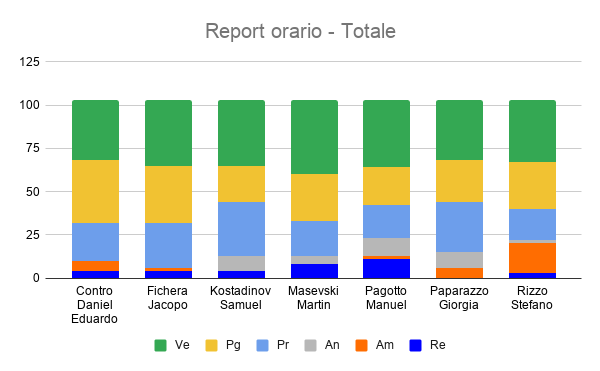
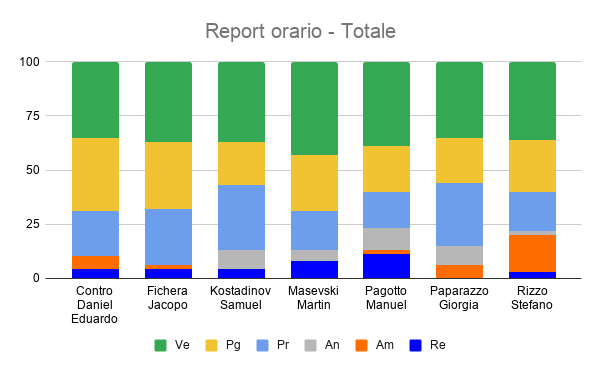
close #124

diff --git a/esterni/piano_di_progetto/src/6_consuntivo.tex b/esterni/piano_di_progetto/src/6_consuntivo.tex
@@ -230,15 +230,15 @@ Inoltre il gruppo ha deciso di togliere delle ore dal ruolo di \emph{responsabil
 	\rowcolor{lightgray}
 	\textbf{Nome} & \textbf{Re} & \textbf{Am} & \textbf{An} & \textbf{Pg}  & \textbf{Pr}   & \textbf{Ve} & \textbf{Totale}\\
 	\hline
-	Contro Daniel Eduardo & 4(-5) & 0 & 0 & 14(+4) & 22(+4) & 13 & 33(+3) \\
-	Fichera Jacopo & 0 & 0 & 0 & 17 & 19(+2) & 17(+1) & 33(+3) \\
-	Kostadinov Samuel & 4(-6) & 0 & 0 & 11(+3) & 19(+4) & 19(+2) & 33(+3) \\			
-	Masevski Martin & 0 & 0 & 5 & 15(+2) & 14(+1) & 19 & 33(+3) \\
-	Pagotto Manuel & 3(-5) & 0 & 0 & 13(+4) & 20(+4) & 17 & 33(+3) \\			
-	Paparazzo Giorgia & 0 & 6 & 2 & 17 & 13(+3) & 15 & 33(+3) \\
-	Rizzo Stefano & 0 & 8 & 0 & 12 & 17(+3) & 16 & 33(+3) \\
+	Contro Daniel Eduardo & 4(-5) & 0 & 0 & 13(+3) & 20(+2) & 13 & 30 \\
+	Fichera Jacopo & 0 & 0 & 0 & 17 & 17 & 16 & 30 \\
+	Kostadinov Samuel & 4(-6) & 0 & 0 & 10(+2) & 18(+3) & 18(+1) & 30 \\			
+	Masevski Martin & 0 & 0 & 5 & 13 & 13 & 19 & 30 \\
+	Pagotto Manuel & 3(-5) & 0 & 0 & 11(+2) & 19(+3) & 17 & 30 \\			
+	Paparazzo Giorgia & 0 & 6 & 2 & 17 & 10 & 15 & 30 \\
+	Rizzo Stefano & 0 & 8 & 0 & 12 & 14 & 16 & 30 \\
 	\hline
-	\textbf{Ore totali ruolo} & \textbf{11(-16)} & \textbf{14} & \textbf{7} & \textbf{99(+13)} & \textbf{124(+21)} & \textbf{116(+3)} & \textbf{371(+21)} \\
+	\textbf{Ore totali ruolo} & \textbf{11(-16)} & \textbf{14} & \textbf{7} & \textbf{93(+7)} & \textbf{111(+8)} & \textbf{114(+1)} & \textbf{350} \\
 	\hline
 	\end{tabular}
 	\caption{Resoconto orario della fase di progettazione e codifica di dettaglio}
@@ -267,15 +267,15 @@ Inoltre il gruppo ha deciso di togliere delle ore dal ruolo di \emph{responsabil
 		Responsabile & 	 11(-16) 	 & 330,00(-480,00) \\
 		Amministratore & 14 	 & 280,00 \\
 		Analista & 		7 	 & 175,00 \\
-		Progettista &    99(+13)   & 2.178,00(+286,00) \\
-		Programmatore &  124(+21)   & 1.860,00(+315,00) \\
-		Verificatore &   116(+3)  & 1.740,00(+45,00) \\
+		Progettista &    93(+7)   & 2.046,00(+154,00) \\
+		Programmatore &  111(+8)   & 1.665,00(+120,00) \\
+		Verificatore &   114(+1)  & 1.710,00(+15,00) \\
 		\hline
 		\textbf{Totale preventivo} & \textbf{350} & \textbf{€ 6.397,00} \\
 		\hline
-		\textbf{Totale consuntivo} & \textbf{371} & \textbf{€ 6.563,00} \\
+		\textbf{Totale consuntivo} & \textbf{350} & \textbf{€ 6.206,00} \\
 		\hline
-		\textbf{Differenza} & \textbf{21} & \textbf{+€ 166,00}\\
+		\textbf{Differenza} & \textbf{0} & \textbf{-€ 191,00}\\
 		\hline
 		\rowcolor{white}
 		\caption{Resoconto economico della fase di progettazione e codifica di dettaglio}
@@ -288,7 +288,7 @@ Inoltre il gruppo ha deciso di togliere delle ore dal ruolo di \emph{responsabil
 % In questa fase il bilancio viene chiuso in positivo, sebbene vi sia stato un evidente ritardo nella consegna. Ciò è avvenuto a causa del fatto che il gruppo non è riuscito a rientrare del ritardo maturato inizialmente, inoltre si sono verificati rischi non previsti, ovvero il fatto che la sessione invernale ha richiesto molte risorse da parte di buona parte del gruppo (RO02, RP01). 
 % A fronte di ciò, sebbene i documenti siano stati prodotti entro le tempistiche richieste, il PoC ha subito un leggero ritardo, quindi il gruppo ha avuto la necessità di chiedere il colloquio per la Technology Baseline il giorno 8 marzo. Questo ha portato alla possibilità di poter sviluppare più funzionalità di quelle che ci eravamo prefissati, e potenzialmente anticipare parte del lavoro che avverrà nella fase di Progettazione di Dettaglio. 
 % Sebbene questa fase sia rendicontata, attualmente il budget finale non ha subito aumenti di prezzo, bensì un leggero risparmio. Il gruppo farà tesoro di questa possibilità e cercherà di trarne vantaggio per la successiva fase.
-Avendo risparmiato 41,00 € nella fase precedente, il bilancio del gruppo è in negativo di  125,00 €. Questo è dovuto all'aumento delle ore per persona consuntivate nella fase di \emph{Progettazione e codifica di dettaglio}. Le ore assegnate ai ruoli ti \emph{amministratore} e \emph{responsabile} sono ritenute eccessive, al contrario invece, sono necessarie più ore assegnate al ruolo di \emph{programmatore}. A fronte di ciò abbiamo deciso di togliere alcune ore ai ruoli dell'\emph{amministratore} e del \emph{responsabile}, aggiungendone a quello del \emph{programmatore}. 
+Avendo risparmiato 41,00 € nella fase precedente, il bilancio del gruppo è in positivo di 232,00 €. Questo è dovuto alla ridistribuzione delle ore nella fase di \emph{Progettazione e codifica di dettaglio}. Le ore assegnate ai ruoli ti \emph{amministratore} e \emph{responsabile} sono ritenute eccessive, al contrario invece, sono necessarie più ore assegnate al ruolo di \emph{programmatore}. A fronte di ciò abbiamo deciso di togliere alcune ore ai ruoli dell'\emph{amministratore} e del \emph{responsabile}, aggiungendone a quello del \emph{programmatore}. 
 
 \paragraph{Preventivo a finire - Validazione e collaudo}
 
@@ -357,15 +357,15 @@ Il totale delle ore rendicontate preventivate per il progetto diventano le segue
 		\textbf{Nome} & \textbf{Re} & \textbf{Am} & \textbf{An} & \textbf{Pg}  & \textbf{Pr}   & \textbf{Ve} & \textbf{Totale} \\
 
 		\hline
-			Contro Daniel Eduardo & 4(-5) & 6(-1) & 0 & 22(+4) & 36(+5) & 35 & 103(+3) \\
-			Fichera Jacopo & 4(-5) & 2(-2) & 0 & 26(-1) & 33(+9) & 38(+2) & 103(+3) \\
-			Kostadinov Samuel & 4(-6) & 0 & 9(+1) & 31(+5) & 21(+4) & 38(-1) & 103(+3) \\		
-			Masevski Martin & 8(-3) & 0 & 5 & 20(+2) & 27(+9) & 43(-5) & 103(+3) \\
-			Pagotto Manuel & 11(-7) & 2(-2) & 10(+1) & 19(+4) & 22(+6) & 39(+1) & 103(+3) \\			
-			Paparazzo Giorgia & 0 & 6 & 9(-3) & 29(+4) & 24(+4) & 35(-2) & 103(+3) \\
-			Rizzo Stefano & 3(-5) & 17 & 2 & 18(+2) & 27(+9) & 36(-3) & 103(+3) \\
+			Contro Daniel Eduardo & 4(-5) & 6(-1) & 0 & 21(+3) & 34(+3) & 35 & 100 \\
+			Fichera Jacopo & 4(-5) & 2(-2) & 0 & 26(-1) & 31(+7) & 37(+1) & 100 \\
+			Kostadinov Samuel & 4(-6) & 0 & 9(+1) & 30(+4) & 20(+3) & 37(-2) & 100 \\		
+			Masevski Martin & 8(-3) & 0 & 5 & 18 & 26(+8) & 43(-5) & 100 \\
+			Pagotto Manuel & 11(-7) & 2(-2) & 10(+1) & 17(+2) & 21(+5) & 39(+1) & 100 \\			
+			Paparazzo Giorgia & 0 & 6 & 9(-3) & 29(+4) & 21(+1) & 35(-2) & 100 \\
+			Rizzo Stefano & 3(-5) & 17 & 2 & 18(+2) & 24(+6) & 36(-3) & 100 \\
 			\hline
-			\textbf{Ore totali ruolo} & \textbf{34(-31)} & \textbf{33(-5)} & \textbf{35(-1)} & \textbf{165(+20)} & \textbf{190(+46)} & \textbf{264(-8)} & \textbf{721(+21)} \\
+			\textbf{Ore totali ruolo} & \textbf{34(-31)} & \textbf{33(-5)} & \textbf{35(-1)} & \textbf{159(+14)} & \textbf{177(+33)} & \textbf{262(-10)} & \textbf{700} \\
 		\hline	
 		\rowcolor{white}
 		\caption{Preventivo a finire progettazione e codifica di dettaglio - Distribuzione oraria delle ore totali rendicontate}
@@ -398,11 +398,11 @@ Di seguito lo spaccato per ruolo di ore e costi:
 		Responsabile & 34(-31) & 1.020,00(-930,00) \\
 		Amministratore & 33(-5) & 660,00(-100,00) \\
 		Analista & 35(-1) & 875,00(-25,00) \\
-		Progettista & 165(+20) & 3.630,00(+440,00) \\
-		Programmatore & 190(+46) & 2.850,00(+690,00) \\
-		Verificatore & 264(-8) & 3.960,00(-120,00) \\
+		Progettista & 159(+14) & 3.498,00(+308,00) \\
+		Programmatore & 177(+33) & 2.655,00(+495,00) \\
+		Verificatore & 262(-10) & 3.930,00(-150,00) \\
 		\hline
-		\textbf{Totale} & \textbf{721(+21)} & \textbf{12.995,00(-45,00)}\\
+		\textbf{Totale} & \textbf{700} & \textbf{12.638,00(-402,00)}\\
 		\hline
 		\rowcolor{white}
 		\caption{Preventivo a finire progettazione e codifica di dettaglio - Prospetto dei costi delle ore rendicontate}
@@ -417,7 +417,7 @@ Di seguito il grafico che espone lo scostamento tra i costi preventivati e i cos
 	\caption{Scostamento tra costi preventivati a finire e costi consuntivati}
 \end{figure}
 
-Il carico di ore per persona è aumentato di tre ore, tuttavia togliendo alcune ore ai ruoli di \textsc{amministratore} e \textsc{responsabile} il preventivo è sceso di 45,00 €.\\
-Il preventivo a finire è ora di 12.995,00 €. 
+\noindent Il carico di ore per persona è rimasto invariato, tuttavia togliendo alcune ore ai ruoli di \textsc{amministratore} e \textsc{responsabile} il preventivo è sceso di 402,00 €.\\
+Il preventivo a finire è ora di 12.638,00 €. 
 
 \end{document}
